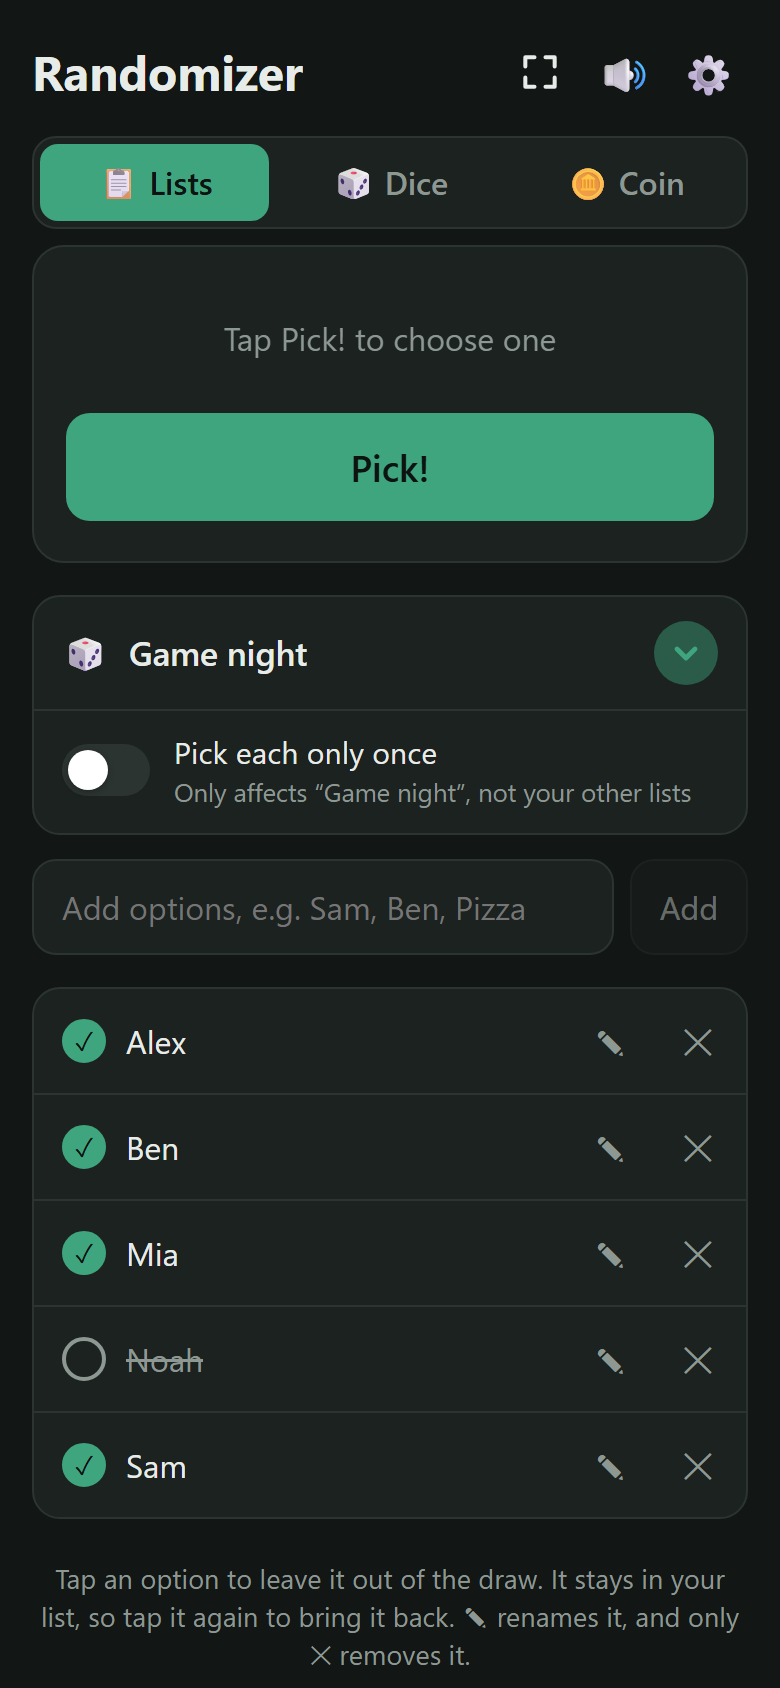
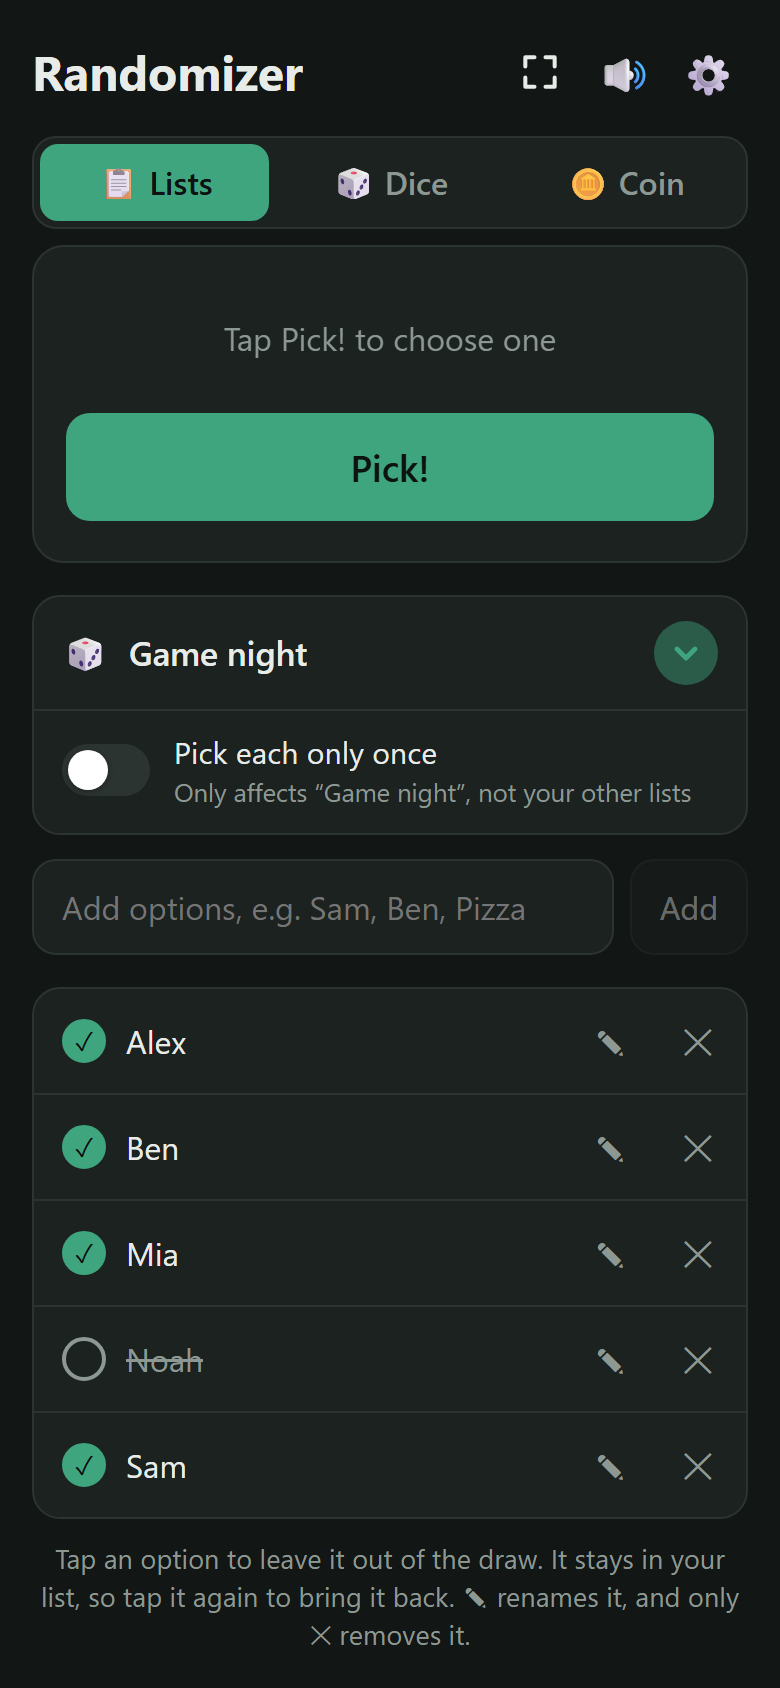
Tips sit right under the list they explain, above Recent
The "Tap an option…" and "Tap a range…" tips move from the bottom of the
page to directly under the options or ranges, with Recent picks or rolls
below them.

Changed region(s): [[0.0615, 0.9242, 0.9538, 0.9858]]

diff --git a/index.html b/index.html
@@ -413,7 +413,8 @@
     animation: arm .25s cubic-bezier(.2, 1.6, .4, 1);
   }
   .empty { color: var(--muted); text-align: center; padding: 24px 8px; }
-  .tip { color: var(--muted); font-size: .85rem; text-align: center; margin-top: 20px; }
+  /* the tips sit right under the list (or ranges) they explain, above Recent */
+  .tip { color: var(--muted); font-size: .85rem; text-align: center; margin: 10px 4px 18px; }
 
   .history { margin-top: 16px; }
   .history[hidden] { display: none; }
@@ -717,6 +718,8 @@
   </form>
 
   <div id="lists"></div>
+  <p class="tip number-only">Tap a range to choose it, then tap Roll! After rolling several dice, tap a die to roll just that one again. ✎ changes a range’s numbers or name, and ✕ removes it.</p>
+  <p class="tip list-tip">Tap an option to leave it out of the draw. It stays in your list, so tap it again to bring it back. ✎ renames it, and only ✕ removes it.</p>
 
   <details class="history" id="history" hidden>
     <summary>🕘 Recent picks</summary>
@@ -726,9 +729,6 @@
       <button type="button" class="btn" id="clearHistory">Clear history</button>
     </div>
   </details>
-
-  <p class="tip number-only">Tap a range to choose it, then tap Roll! After rolling several dice, tap a die to roll just that one again. ✎ changes a range’s numbers or name, and ✕ removes it.</p>
-  <p class="tip list-tip">Tap an option to leave it out of the draw. It stays in your list, so tap it again to bring it back. ✎ renames it, and only ✕ removes it.</p>
 
   <a class="support" id="support" href="https://paypal.me/neckfors" target="_blank" rel="noopener"><span class="heart">♥</span> Support the author</a>
 

diff --git a/sw.js b/sw.js
@@ -1,5 +1,5 @@
 // Bump the version when you change any file so phones pick up the update.
-const CACHE = 'whostarts-v98';
+const CACHE = 'whostarts-v99';
 const FILES = ['./', 'index.html', 'manifest.json', 'icon-192.png', 'icon-512.png'];
 
 // 'reload' skips the browser's own HTTP cache, so a new version really gets

diff --git a/README.md b/README.md
@@ -46,7 +46,7 @@ Every pick is completely random. Each option in the draw has the same chance eve
 
 **Pick each only once:** switch this on for a list when you want to go round instead, like taking turns on chores. Whatever gets picked sits out automatically, and when everything has been picked, the button turns into **↺ Start over** to put everything back. The setting is saved per list, so *Game night* can allow repeats while *Who makes dinner* takes turns.
 
-**Recent picks:** under the options, *🕘 Recent picks* keeps the last 100 picks for each list, handy for "who did the dishes last time?". It shows the newest 10; tap *Show all* to see the rest.
+**Recent picks:** under the options and the short tip about them, *🕘 Recent picks* keeps the last 100 picks for each list, handy for "who did the dishes last time?". It shows the newest 10; tap *Show all* to see the rest.
 
 ## Rolling dice 🎲
 
@@ -60,7 +60,7 @@ Switch to **🎲 Dice** at the top to roll dice, or any random number, instead o
 
 **Roll each number only once:** switch this on for a range when the same number must not come up twice, like drawing raffle tickets. Numbers already rolled sit out, the switch shows how many have been rolled, and when every number has been rolled the button turns into **↺ Start over**. The setting is saved per range, and works with one die.
 
-**Recent rolls:** under the ranges, *🕘 Recent rolls* keeps your last 100 rolls across all ranges. Each result shows in a small gold badge, with what was rolled next to it, like *2d6: 4 + 5* or *10 to 30*. It shows the newest 10; tap *Show all* to see the rest.
+**Recent rolls:** under the ranges and the short tip about them, *🕘 Recent rolls* keeps your last 100 rolls across all ranges. Each result shows in a small gold badge, with what was rolled next to it, like *2d6: 4 + 5* or *10 to 30*. It shows the newest 10; tap *Show all* to see the rest.
 
 Your ranges are remembered and included in backups. `https://neckfors.github.io/randomizer/#dice` opens straight in Dice mode (older `#number` links still work).
 
@@ -181,7 +181,7 @@ Plain HTML, CSS and JavaScript, with no build step or dependencies.
 ### Making changes
 
 Edit the files and push to `main`. GitHub Pages publishes automatically.
-**Change `CACHE` in `sw.js` every time** (for example `whostarts-v98` → `whostarts-v99`), otherwise installed copies keep showing the old version and the update bar never appears.
+**Change `CACHE` in `sw.js` every time** (for example `whostarts-v99` → `whostarts-v100`), otherwise installed copies keep showing the old version and the update bar never appears.
 
 ## Support
 
